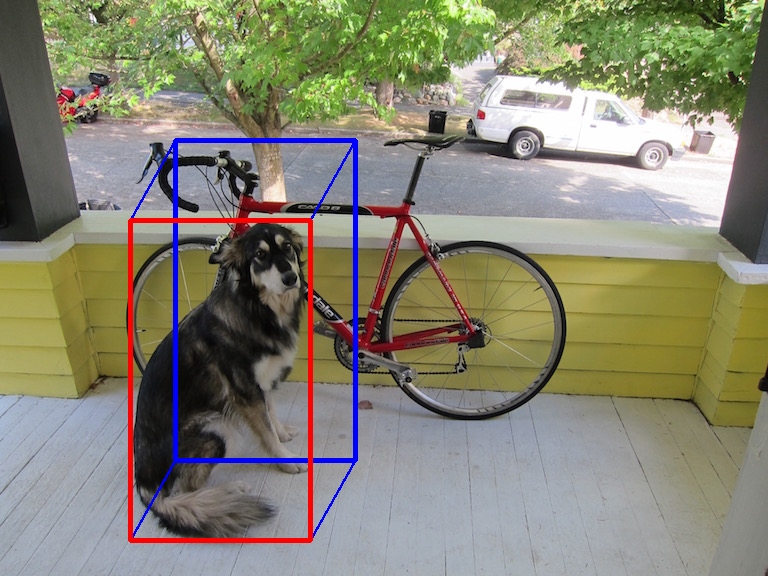
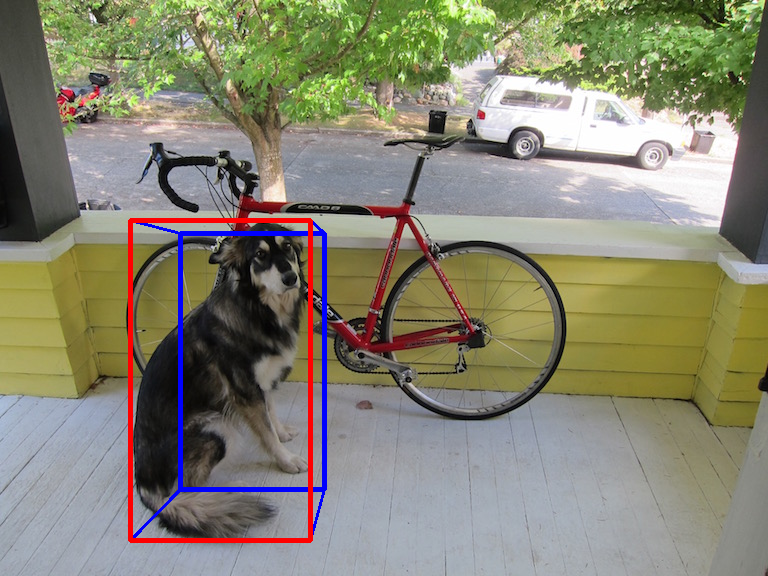
fixed 3d box to use true perspective projection

Changed region(s): [[0.1875, 0.2188, 0.4688, 0.9375], [0.1562, 0.9062, 0.1875, 0.9375], [0.1562, 0.3438, 0.1875, 0.375]]

diff --git a/4_Object_Detection_2D_vs_3D/script.py b/4_Object_Detection_2D_vs_3D/script.py
@@ -38,11 +38,17 @@ for (x, y, w, h) in cats:
     # 2d front points (the detected box)
     pts_front = np.array([[x, y], [x+w, y], [x+w, y+h], [x, y+h]], np.int32)
     
-    # simulated 3d back points with depth offset
-    offset_x = int(w * 0.25)
-    offset_y = int(h * 0.25)
-    pts_back = np.array([[x+offset_x, y-offset_y], [x+w+offset_x, y-offset_y], 
-                         [x+w+offset_x, y+h-offset_y], [x+offset_x, y+h-offset_y]], np.int32)
+    # simulate true perspective projection going "back" into the image
+    img_h, img_w = img.shape[:2]
+    img_cx, img_cy = img_w / 2, img_h / 2
+    
+    scale = 0.8 # scale factor for depth (smaller = further back)
+    pts_back = []
+    for px, py in pts_front:
+        bx = int(img_cx + (px - img_cx) * scale)
+        by = int(img_cy + (py - img_cy) * scale)
+        pts_back.append([bx, by])
+    pts_back = np.array(pts_back, np.int32)
     
     # draw back box n connecting lines in BLUE (BGR: 255, 0, 0) for simulated 3d parts
     cv2.polylines(img_3d, [pts_back], True, (255, 0, 0), 3)
